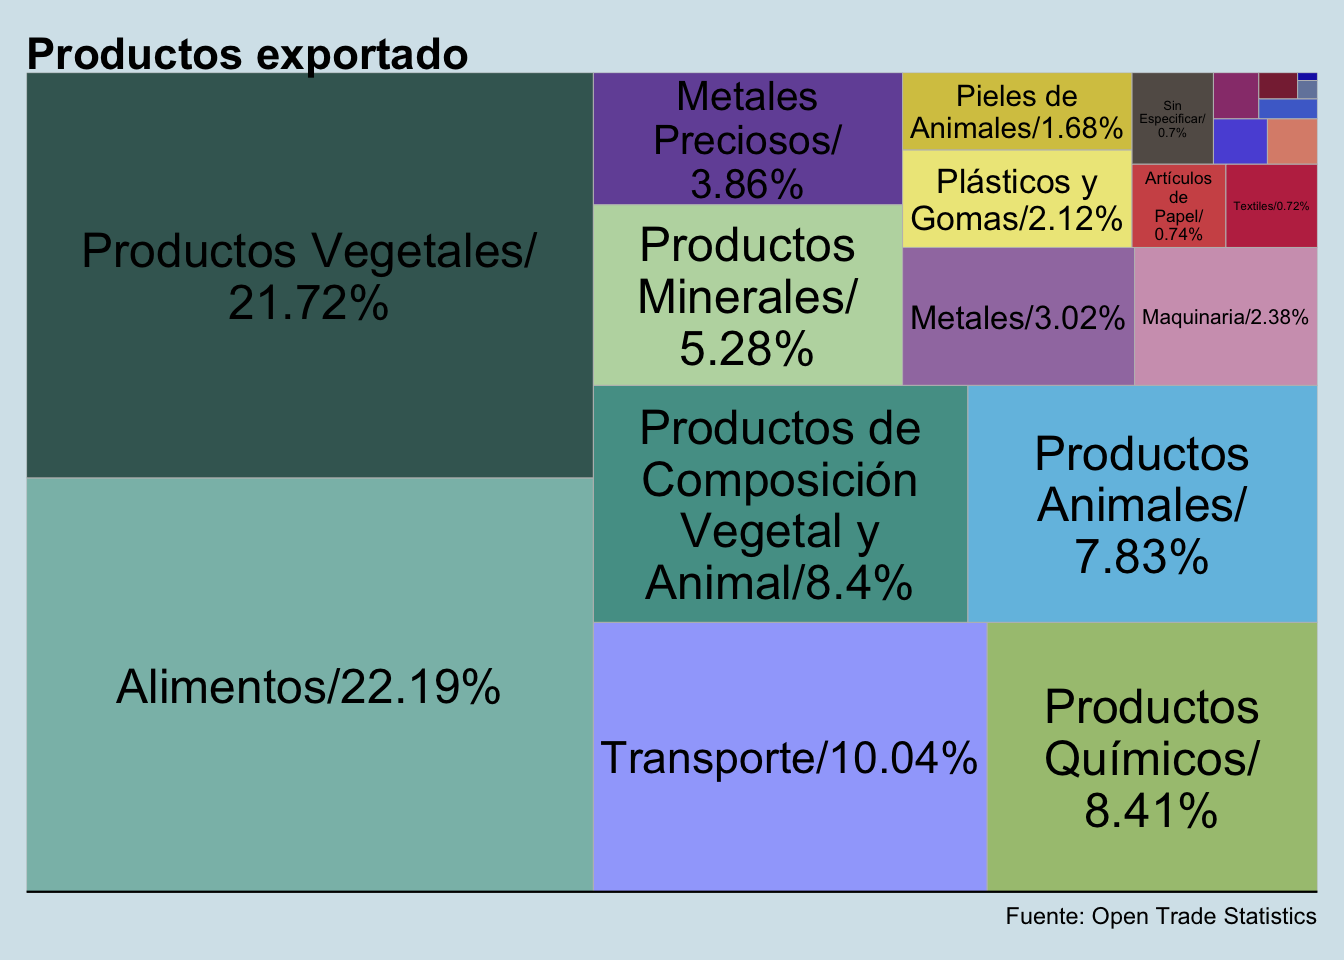
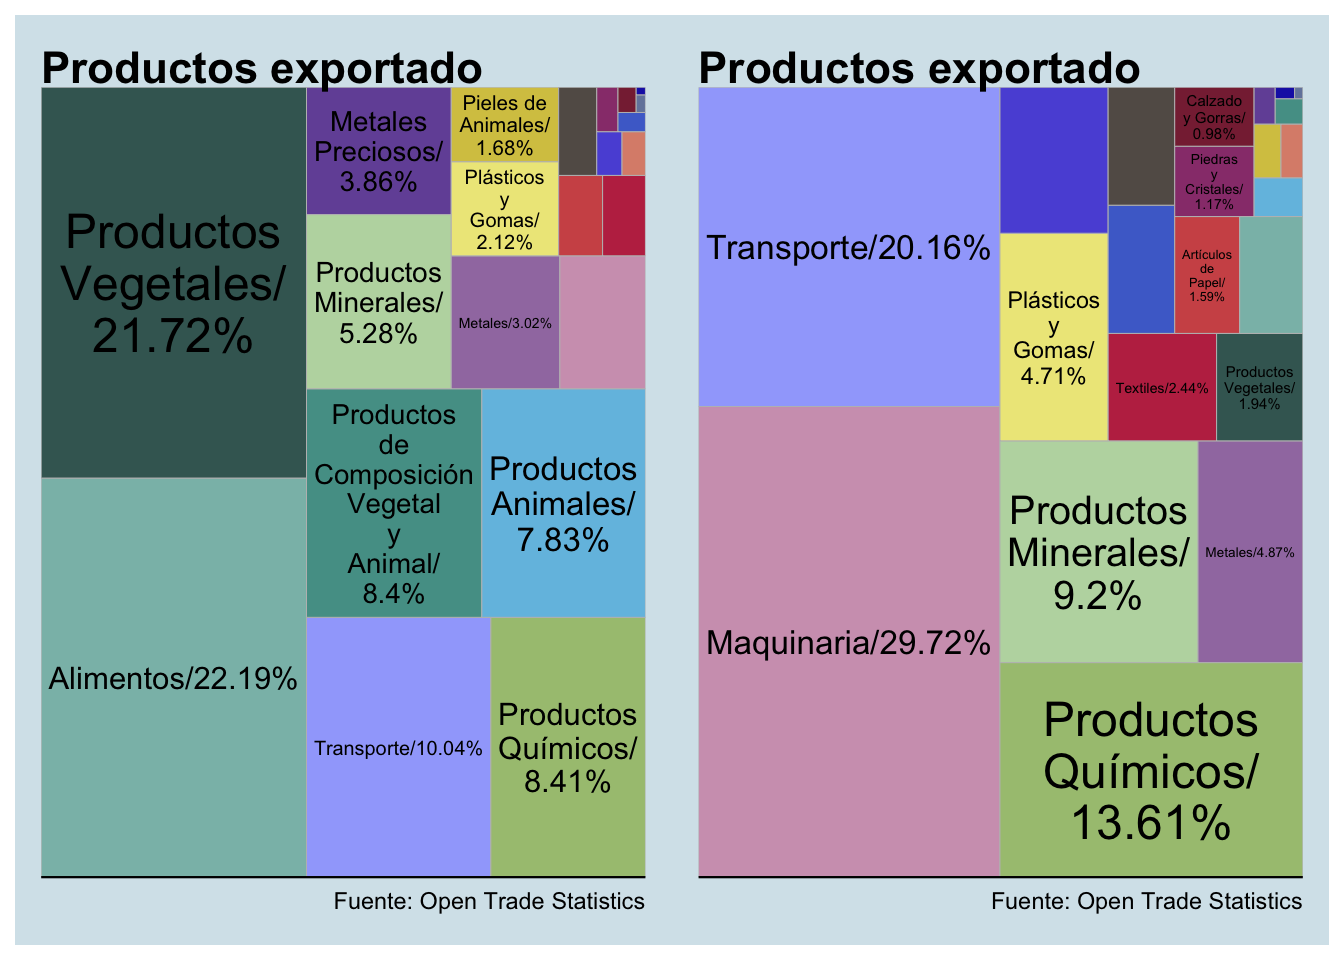
Commiting changes comercio argentina

diff --git a/content/post/2021-01-19-comercio-arg/index.html b/content/post/2021-01-19-comercio-arg/index.html
@@ -1,5 +1,5 @@
 ---
-title: comercio-arg
+title: Comercio Exterior en Argentina
 author: Rebecca Hoffmann
 date: '2021-01-19'
 slug: comercio-arg
@@ -34,7 +34,7 @@ library(treemapify)
 library(ggthemes)
 library(scales)
 library(patchwork)</code></pre>
-<p>Trying to fix an error with the new version of dplyr:</p>
+<p>Evitando el error de "“<code>summarise()</code> ungrouping output (override with <code>.groups</code> argument)” de la nueva versión de dplyr:</p>
 <pre class="r"><code>library(dplyr, warn.conflicts = FALSE)
 # Suppress summarise info
 options(dplyr.summarise.inform = FALSE)</code></pre>
@@ -164,11 +164,51 @@ grafico_export_2017</code></pre>
 <p><img src="index_files/figure-html/arg%20productos%20grafico-1.png" width="672" /></p>
 </div>
 </div>
+<div id="importaciones" class="section level2">
+<h2>Importaciones</h2>
+<p>Ahora me interesa ver como se distribuye las importaciones por categoría de productos para después poder comparar los dos.</p>
+<div id="transformando-los-datos-1" class="section level3">
+<h3>Transformando los datos</h3>
+<p>Uso el mismo código que arriba, pero cambio la variable de “valor_exportado_dolares” a ser “valor_importado_dolares”.</p>
+<pre class="r"><code>import_argentina_2017 &lt;- comercio_mundo %&gt;%
+  filter(anio == 2017, 
+         codigo_iso_origen == &quot;arg&quot;) %&gt;%
+  group_by(anio, 
+           nombre_comunidad_producto,
+           color_comunidad_producto) %&gt;%
+  summarise(valor_importado_dolares = sum(valor_importado_dolares, na.rm = T)) %&gt;%
+  ungroup() %&gt;%
+  mutate(
+    etiquetas = paste0(nombre_comunidad_producto, &quot;/&quot;, round(100*valor_importado_dolares/sum(valor_importado_dolares), 2), &quot;%&quot;)
+    )</code></pre>
+</div>
+<div id="graficando-3" class="section level3">
+<h3>Graficando</h3>
+<p>Lo mismo para poder genera el grafico; el código es el mismo pero cambio la variable:</p>
+<pre class="r"><code>grafico_import_2017 &lt;- ggplot(import_argentina_2017, aes(
+  area = valor_importado_dolares, 
+  fill = nombre_comunidad_producto,
+  label = etiquetas)) +
+  geom_treemap() +
+  geom_treemap_text(color = &quot;black&quot;,
+                    place = &quot;centre&quot;,
+                    grow = F,
+                    reflow = T) +
+  scale_fill_manual(values = import_argentina_2017$color_comunidad_producto) +
+  labs(title = &quot;Productos exportado&quot;,
+       caption = &quot;Fuente: Open Trade Statistics&quot;) +
+  theme_economist() +
+  theme(legend.position = &quot;none&quot;)
+
+grafico_import_2017</code></pre>
+<p><img src="index_files/figure-html/arg%20import%20grafico-1.png" width="672" /></p>
+</div>
+</div>
 <div id="comparación" class="section level2">
 <h2>Comparación</h2>
 <p>Tengo la liberaría “patchwork” cargada, lo cual me permite mostrar los dos graficos uno al lado del otro con este fácil código:</p>
 <pre class="r"><code>
-grafico_export_2017</code></pre>
+grafico_export_2017 + grafico_import_2017</code></pre>
 <p><img src="index_files/figure-html/patchwork-1.png" width="672" /></p>
 </div>
 <div id="sum-up-2" class="section level2">
